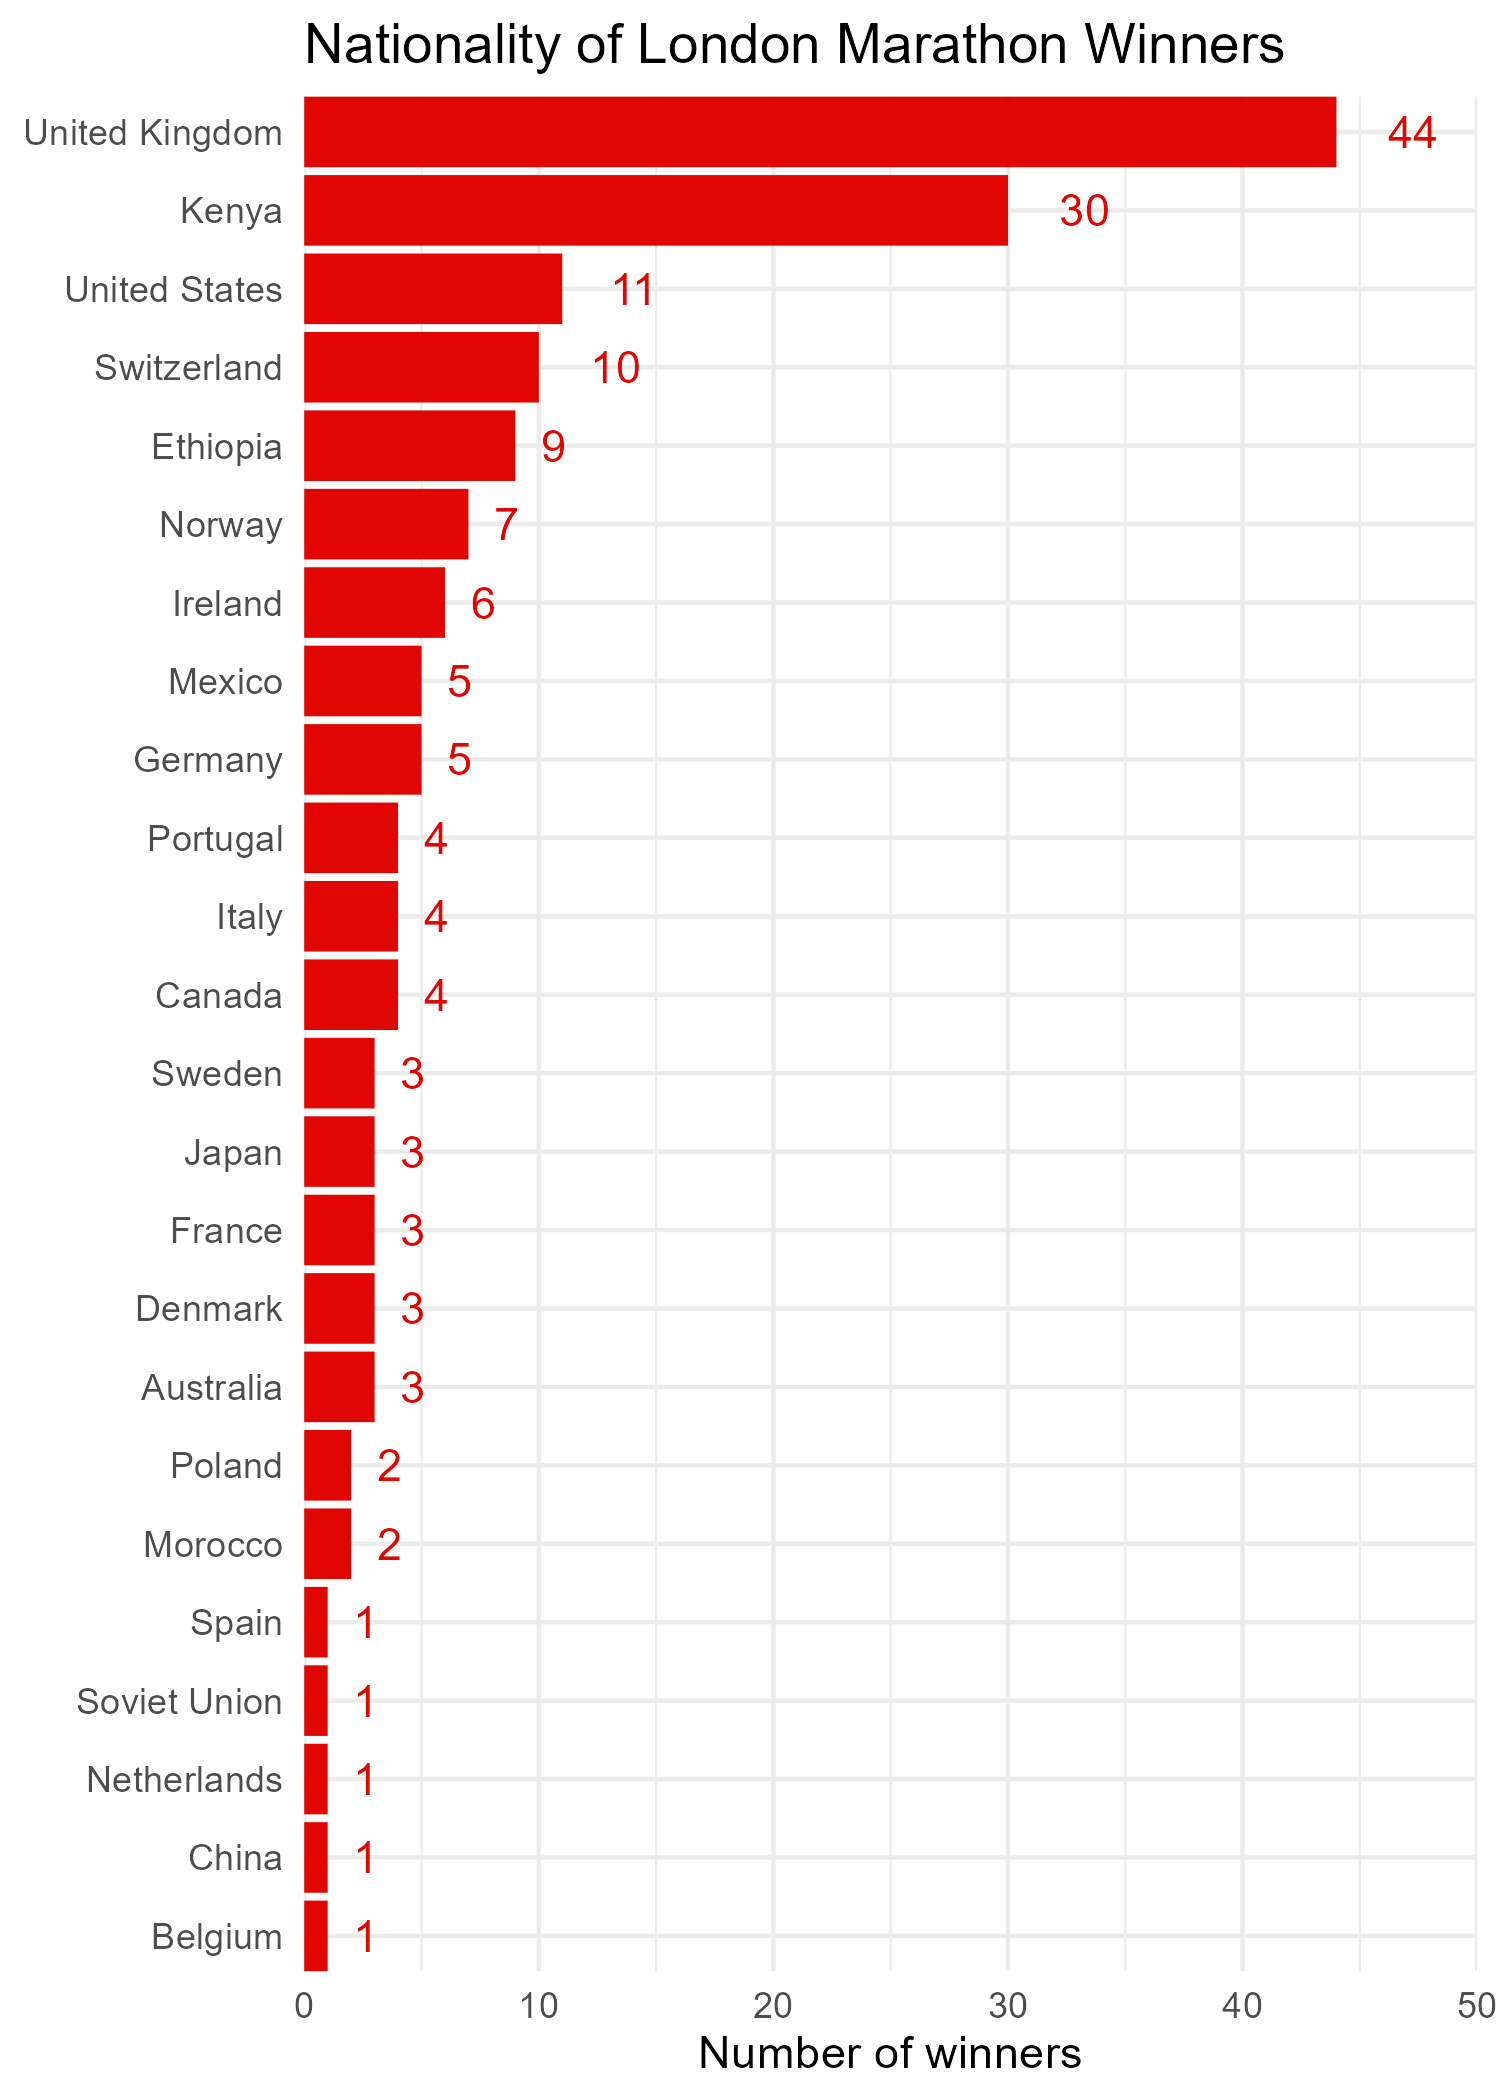
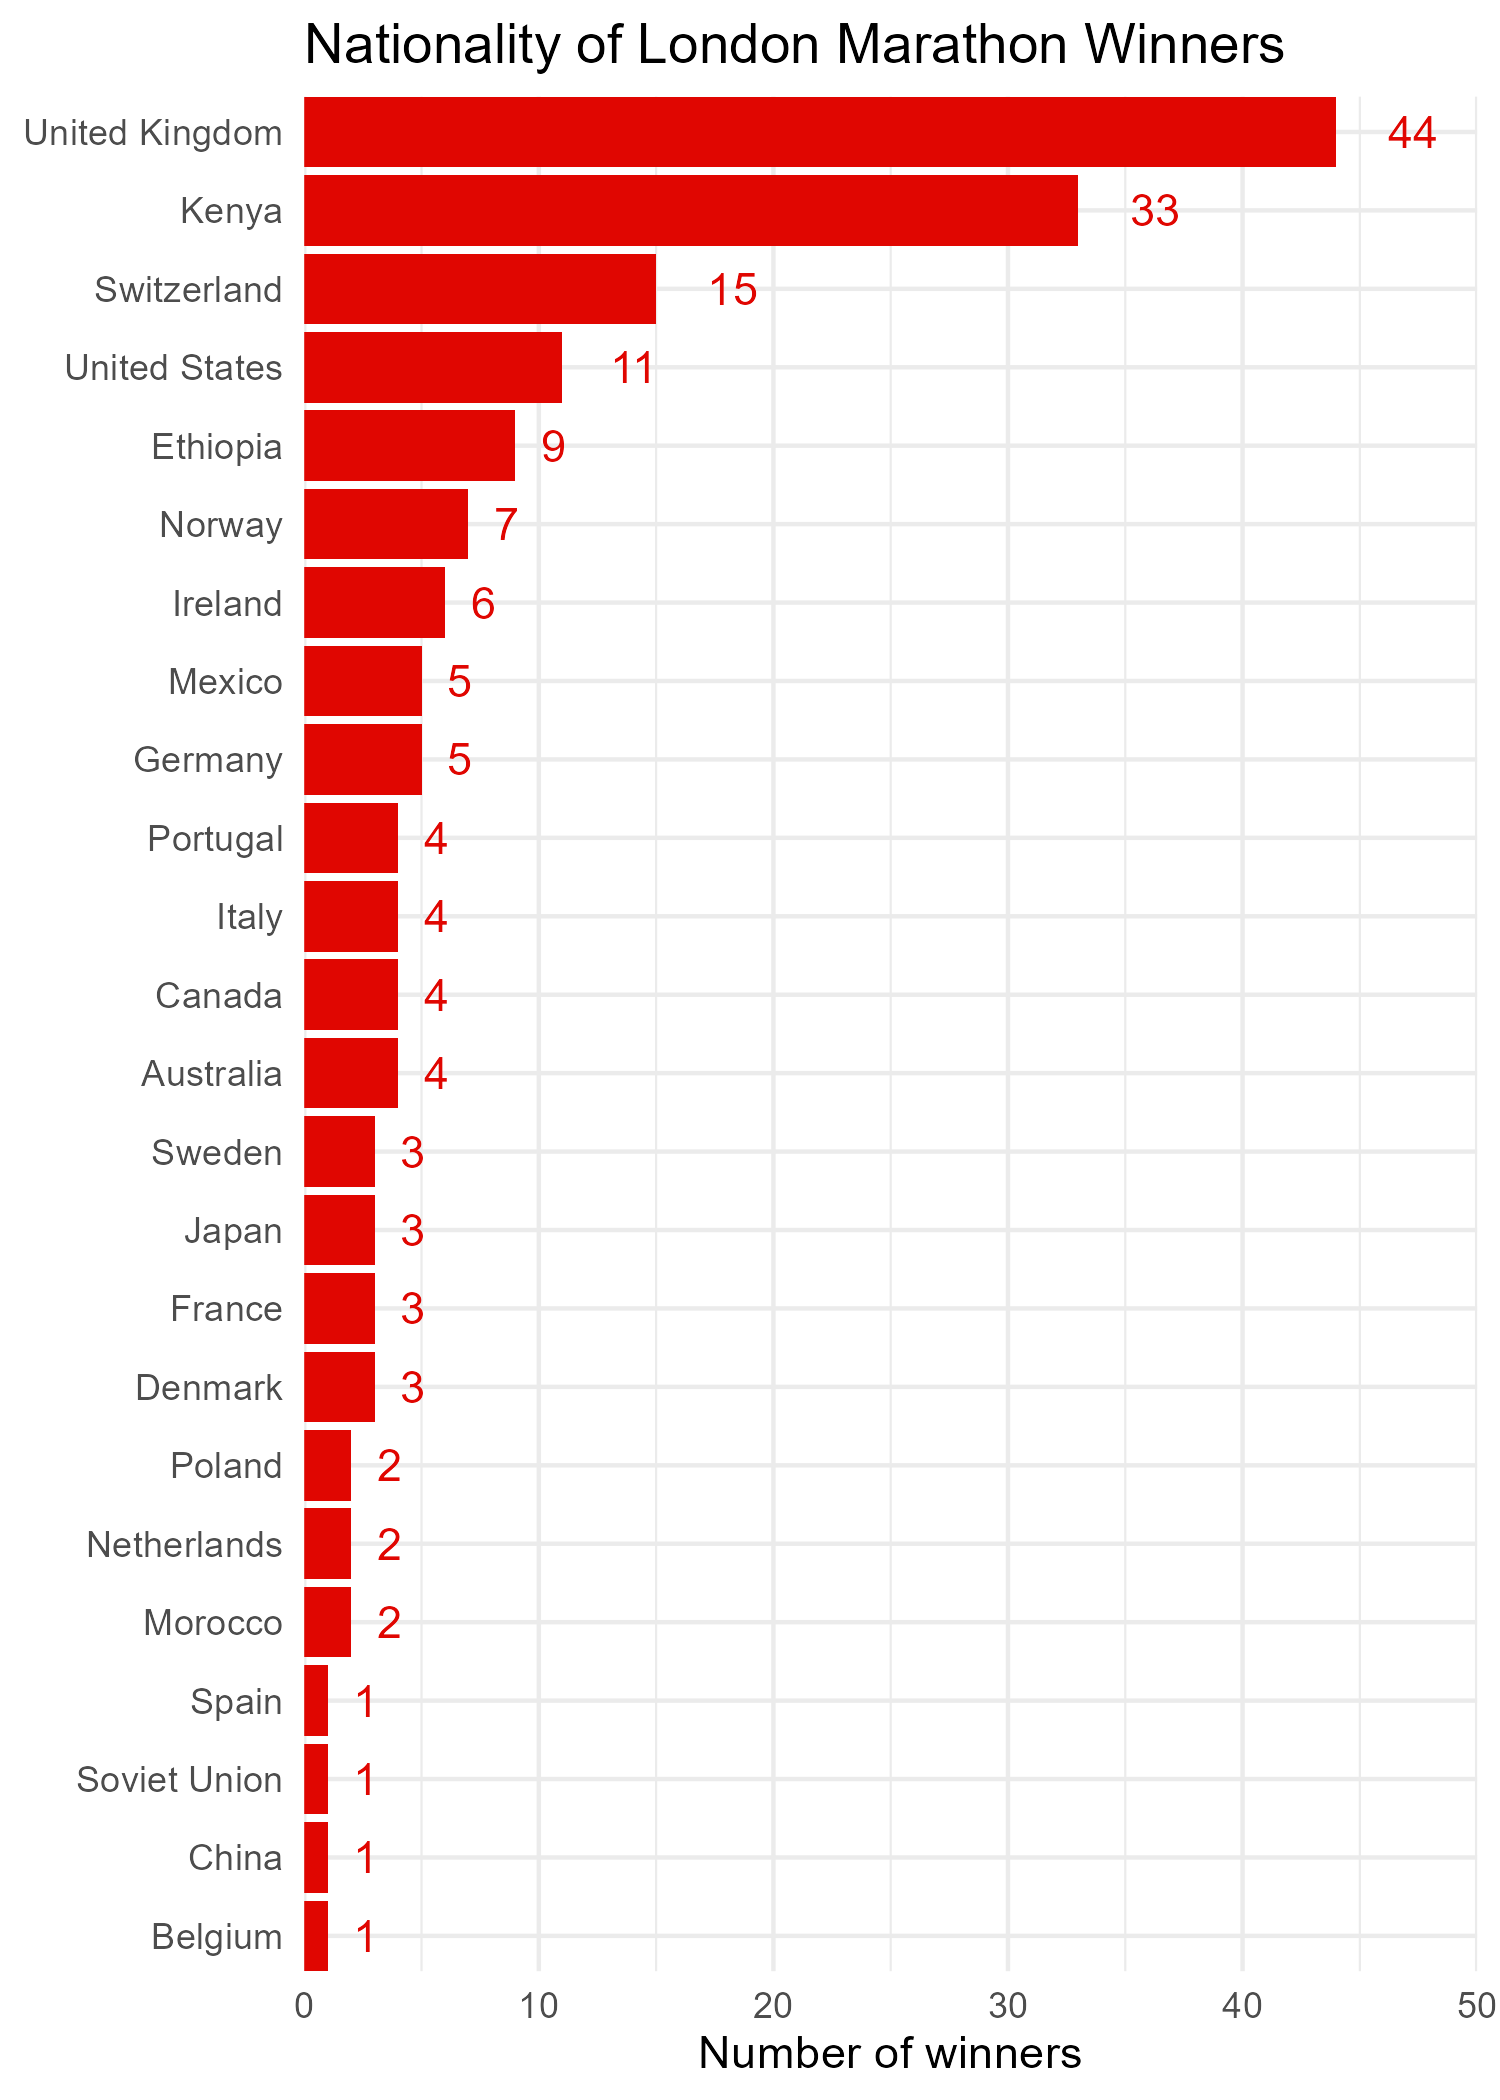
update readme and plots

diff --git a/README.md b/README.md
@@ -4,7 +4,7 @@
 
 # LondonMarathon <img src="man/figures/logo.png" align="right" width="120" />
 
-An R package containing two data sets scraped from Wikipedia (1 November 2022) on London Marathon winners, and general data. The two data sets can be joined by `Year`.
+An R package containing two data sets scraped from Wikipedia (last scraped 6 April 2025) on London Marathon winners, and general data. The two data sets can be joined by `Year`.
 
 ## Installation
 
@@ -45,8 +45,6 @@ data(london_marathon, package = "LondonMarathon")
 |Finishers        |integer    |Number of people who finished               |6255                 |
 |Raised           |integer    |Amount raised for charity (£ millions)      |46.5                 |
 |Official.charity |character  |Official charity                            |SportsAid            |
-
-> At the time of last update (24/04/2023), wheelchair men and wheelchair women winners data was missing for 2022 and 2023.
 
 ## Plots
 
